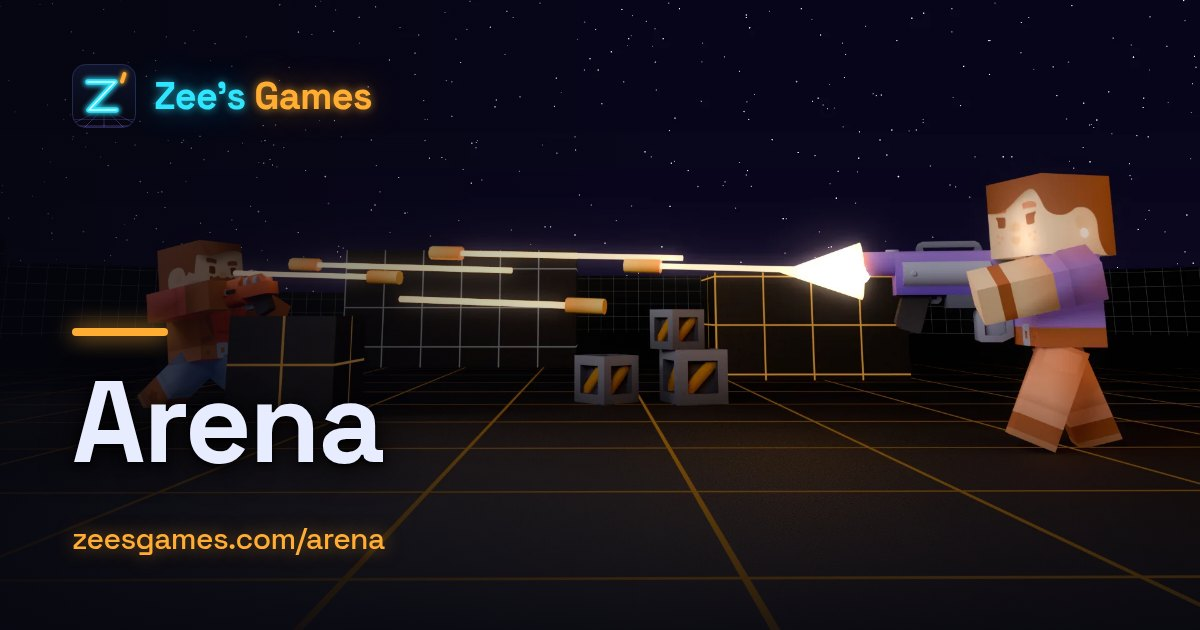
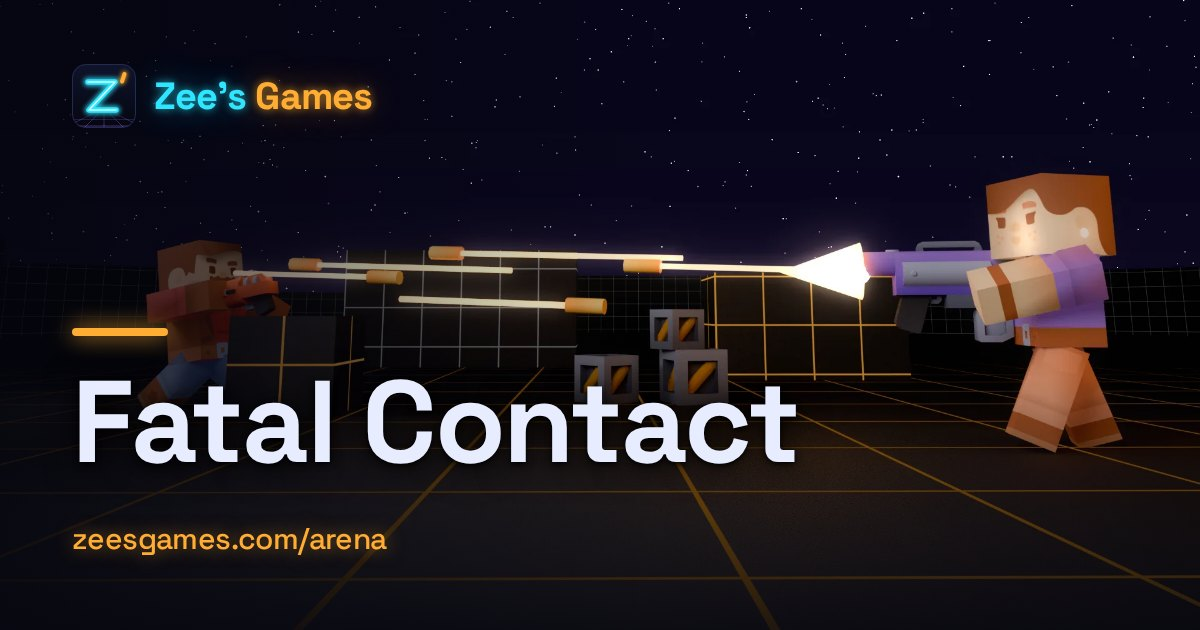
Arena is now Fatal Contact (Zee's Fatal Contact)
Title, server name, the Surf Deathmatch line in every locale, the goals and
inspirations labels, and the share image re-rendered with npm run brand
(only arena.jpg kept). The slug and URL stay /arena, and repo stays
game-arena until its GitHub move.

Changed region(s): [[0.0617, 0.6032, 0.6783, 0.754], [0.0617, 0.8444, 0.3392, 0.8746], [0.185, 0.1206, 0.2775, 0.181]]

diff --git a/src/data/games.ts b/src/data/games.ts
@@ -34,7 +34,7 @@ export const GAME_SLUGS = ['arena', 'g2gfast', 'playground', 'hungario', 'buses-
 export type GameSlug = (typeof GAME_SLUGS)[number]
 
 export const GAMES: Game[] = [
-  { slug: 'arena', title: "Arena", kind: 'game', repo: 'game-arena', mapsRepo: 'arena-surf-dm-maps', accent: 'amber', inspirations: [{ title: "Counter-Strike: Source", link: "https://store.steampowered.com/app/240/Counter-Strike_Source/" }] },
+  { slug: 'arena', title: "Fatal Contact", kind: 'game', repo: 'game-arena', mapsRepo: 'arena-surf-dm-maps', accent: 'amber', inspirations: [{ title: "Counter-Strike: Source", link: "https://store.steampowered.com/app/240/Counter-Strike_Source/" }] },
   { slug: 'g2gfast', title: "G2g Fast", kind: 'game', repo: 'game-g2gfast', mapsRepo: 'g2gfast-maps', accent: 'cyan', inspirations: [{ title: "Counter-Strike: Source", link: "https://store.steampowered.com/app/240/Counter-Strike_Source/" }] },
   { slug: 'playground', title: "Playlot", kind: 'game', repo: 'game-playlot', mapsRepo: 'game-playlot-maps', accent: 'violet', inspirations: [{ title: "Garry's Mod", link: "https://store.steampowered.com/app/4000/Garrys_Mod/" }] },
   { slug: 'hungario', title: "Hungario", kind: 'game', repo: 'game-hungario', accent: 'cyan', inspirations: [{ title: "Agar.io", link: "https://agar.io/" }] },

diff --git a/src/i18n/games/ru.ts b/src/i18n/games/ru.ts
@@ -6,7 +6,7 @@ export const ru: Record<GameSlug, GameText> = {
     tagline: "Быстрый шутер от первого лица в режиме дезматч с GunGame и классическими картами Surf Deathmatch.",
     summary: [
       "Быстрый дезматч-шутер от первого лица. Выберите набор снаряжения, покупайте оружие в зонах закупки и вступайте в матч: командный дезматч, каждый сам за себя или GunGame.",
-      "В Arena также играют на классических картах Surf Deathmatch из старых игр серии Counter-Strike: вы сражаетесь, на скорости скользя по рампам.",
+      "В Fatal Contact также играют на классических картах Surf Deathmatch из старых игр серии Counter-Strike: вы сражаетесь, на скорости скользя по рампам.",
     ],
     howToPlay: [
       "Выберите набор снаряжения или купите оружие в зоне закупки.",

diff --git a/src/i18n/games/ja.ts b/src/i18n/games/ja.ts
@@ -6,7 +6,7 @@ export const ja: Record<GameSlug, GameText> = {
     tagline: "GunGame と定番の Surf Deathmatch マップを備えた、スピーディーな一人称デスマッチ。",
     summary: [
       "スピーディーな一人称デスマッチシューターです。ロードアウトを選び、購入ゾーンで武器を買って、チームデスマッチ、フリーフォーオール、GunGame の試合に飛び込みましょう。",
-      "Arena では、古い Counter-Strike シリーズの定番 Surf Deathmatch マップも遊べます。ランプをスピードに乗って滑りながら戦います。",
+      "Fatal Contact では、古い Counter-Strike シリーズの定番 Surf Deathmatch マップも遊べます。ランプをスピードに乗って滑りながら戦います。",
     ],
     howToPlay: [
       "ロードアウトを選ぶか、購入ゾーンで武器を買います。",

diff --git a/src/i18n/games/fr.ts b/src/i18n/games/fr.ts
@@ -6,7 +6,7 @@ export const fr: Record<GameSlug, GameText> = {
     tagline: 'Deathmatch nerveux en vue à la première personne, avec GunGame et les classiques cartes de Surf Deathmatch.',
     summary: [
       'Un jeu de tir deathmatch nerveux à la première personne. Choisissez un équipement, achetez des armes dans les zones d’achat et lancez-vous dans une partie de team deathmatch, de chacun pour soi ou de GunGame.',
-      'Arena propose aussi les cartes classiques de Surf Deathmatch des anciens jeux Counter-Strike : on se bat en surfant à toute vitesse sur des rampes.',
+      'Fatal Contact propose aussi les cartes classiques de Surf Deathmatch des anciens jeux Counter-Strike : on se bat en surfant à toute vitesse sur des rampes.',
     ],
     howToPlay: [
       'Choisissez un équipement, ou achetez des armes dans une zone d’achat.',

diff --git a/src/i18n/games/de.ts b/src/i18n/games/de.ts
@@ -6,7 +6,7 @@ export const de: Record<GameSlug, GameText> = {
     tagline: 'Schnelles Ego-Deathmatch mit GunGame und klassischen Surf-Deathmatch-Maps.',
     summary: [
       'Ein schneller Deathmatch-Shooter aus der Ich-Perspektive. Wählen Sie eine Ausrüstung, kaufen Sie Waffen in den Kaufzonen und stürzen Sie sich in ein Match aus Team Deathmatch, Jeder gegen Jeden oder GunGame.',
-      'Arena spielt außerdem klassische Surf-Deathmatch-Maps aus älteren Counter-Strike-Spielen: Man kämpft, während man mit hohem Tempo Rampen entlangsurft.',
+      'Fatal Contact spielt außerdem klassische Surf-Deathmatch-Maps aus älteren Counter-Strike-Spielen: Man kämpft, während man mit hohem Tempo Rampen entlangsurft.',
     ],
     howToPlay: [
       'Wählen Sie eine Ausrüstung oder kaufen Sie Waffen in einer Kaufzone.',

diff --git a/src/i18n/games/es.ts b/src/i18n/games/es.ts
@@ -6,7 +6,7 @@ export const es: Record<GameSlug, GameText> = {
     tagline: 'Deathmatch rápido en primera persona con GunGame y clásicos mapas de Surf Deathmatch.',
     summary: [
       'Un shooter de deathmatch rápido en primera persona. Elige un equipamiento, compra armas en las zonas de compra y lánzate a una partida de team deathmatch, todos contra todos o GunGame.',
-      'Arena también incluye los clásicos mapas de Surf Deathmatch de los antiguos juegos de Counter-Strike: combates mientras surfeas rampas a toda velocidad.',
+      'Fatal Contact también incluye los clásicos mapas de Surf Deathmatch de los antiguos juegos de Counter-Strike: combates mientras surfeas rampas a toda velocidad.',
     ],
     howToPlay: [
       'Elige un equipamiento o compra armas en una zona de compra.',

diff --git a/src/i18n/games/pt.ts b/src/i18n/games/pt.ts
@@ -6,7 +6,7 @@ export const pt: Record<GameSlug, GameText> = {
     tagline: 'Deathmatch rápido na primeira pessoa com GunGame e mapas clássicos de Surf Deathmatch.',
     summary: [
       'Um shooter de deathmatch rápido na primeira pessoa. Escolha um equipamento, compre armas nas zonas de compra e entre num jogo de team deathmatch, todos contra todos ou GunGame.',
-      'O Arena também tem os mapas clássicos de Surf Deathmatch dos antigos jogos Counter-Strike: combate-se enquanto se faz surf em rampas a grande velocidade.',
+      'O Fatal Contact também tem os mapas clássicos de Surf Deathmatch dos antigos jogos Counter-Strike: combate-se enquanto se faz surf em rampas a grande velocidade.',
     ],
     howToPlay: [
       'Escolha um equipamento ou compre armas numa zona de compra.',

diff --git a/src/i18n/games/zh.ts b/src/i18n/games/zh.ts
@@ -6,7 +6,7 @@ export const zh: Record<GameSlug, GameText> = {
     tagline: "节奏飞快的第一人称死亡竞赛，包含 GunGame 和经典的 Surf Deathmatch 地图。",
     summary: [
       "一款节奏飞快的第一人称死亡竞赛射击游戏。选择装备，在购买区购买武器，然后投入团队死亡竞赛、自由混战或 GunGame 对局。",
-      "Arena 还能玩来自早期 Counter-Strike 游戏的经典 Surf Deathmatch 地图：你要一边高速滑过斜坡，一边战斗。",
+      "Fatal Contact 还能玩来自早期 Counter-Strike 游戏的经典 Surf Deathmatch 地图：你要一边高速滑过斜坡，一边战斗。",
     ],
     howToPlay: [
       "选择装备，或在购买区购买武器。",

diff --git a/src/i18n/games/nl.ts b/src/i18n/games/nl.ts
@@ -6,7 +6,7 @@ export const nl: Record<GameSlug, GameText> = {
     tagline: "Snelle first-person deathmatch met GunGame en klassieke Surf Deathmatch-maps.",
     summary: [
       "Een snelle first-person deathmatchshooter. Kies een loadout, koop wapens in de koopzones en stort je in een potje team deathmatch, free-for-all of GunGame.",
-      "In Arena speel je ook klassieke Surf Deathmatch-maps uit oudere Counter-Strike-games: je vecht terwijl je op snelheid over ramps surft.",
+      "In Fatal Contact speel je ook klassieke Surf Deathmatch-maps uit oudere Counter-Strike-games: je vecht terwijl je op snelheid over ramps surft.",
     ],
     howToPlay: [
       "Kies een loadout, of koop wapens in een koopzone.",

diff --git a/src/i18n/games/en.ts b/src/i18n/games/en.ts
@@ -18,7 +18,7 @@ export const en: Record<GameSlug, GameText> = {
     tagline: "Fast first-person deathmatch with GunGame and classic Surf Deathmatch maps.",
     summary: [
       "A fast first-person deathmatch shooter. Pick a loadout, buy weapons in the buy zones and jump into a match of team deathmatch, free-for-all or GunGame.",
-      "Arena also plays classic Surf Deathmatch maps from older Counter-Strike games: you fight while surfing ramps at speed.",
+      "Fatal Contact also plays classic Surf Deathmatch maps from older Counter-Strike games: you fight while surfing ramps at speed.",
     ],
     howToPlay: [
       "Pick a loadout, or buy weapons from a buy zone.",

diff --git a/src/data/servers.ts b/src/data/servers.ts
@@ -25,7 +25,7 @@ export interface ZeeServer {
 export const SERVER_DOMAIN = 'zeesgames.com'
 
 export const SERVERS: ZeeServer[] = [
-  { id: 'ar01', app: 'arena', tmcId: '3803239', name: "Zee's Arena #1", port: 6020 },
+  { id: 'ar01', app: 'arena', tmcId: '3803239', name: "Zee's Fatal Contact #1", port: 6020 },
   { id: 'g2gfast01', app: 'g2gfast', tmcId: '3550523', name: "Zee's G2gfast #1", port: 6005 },
   { id: 'pg01', app: 'playground', tmcId: '3803266', name: "Zee's Playlot #1", port: 6010 },
   { id: 'hg01', app: 'hungario', tmcId: '3803240', name: "Zee's Hungario #1", port: 6030 },
